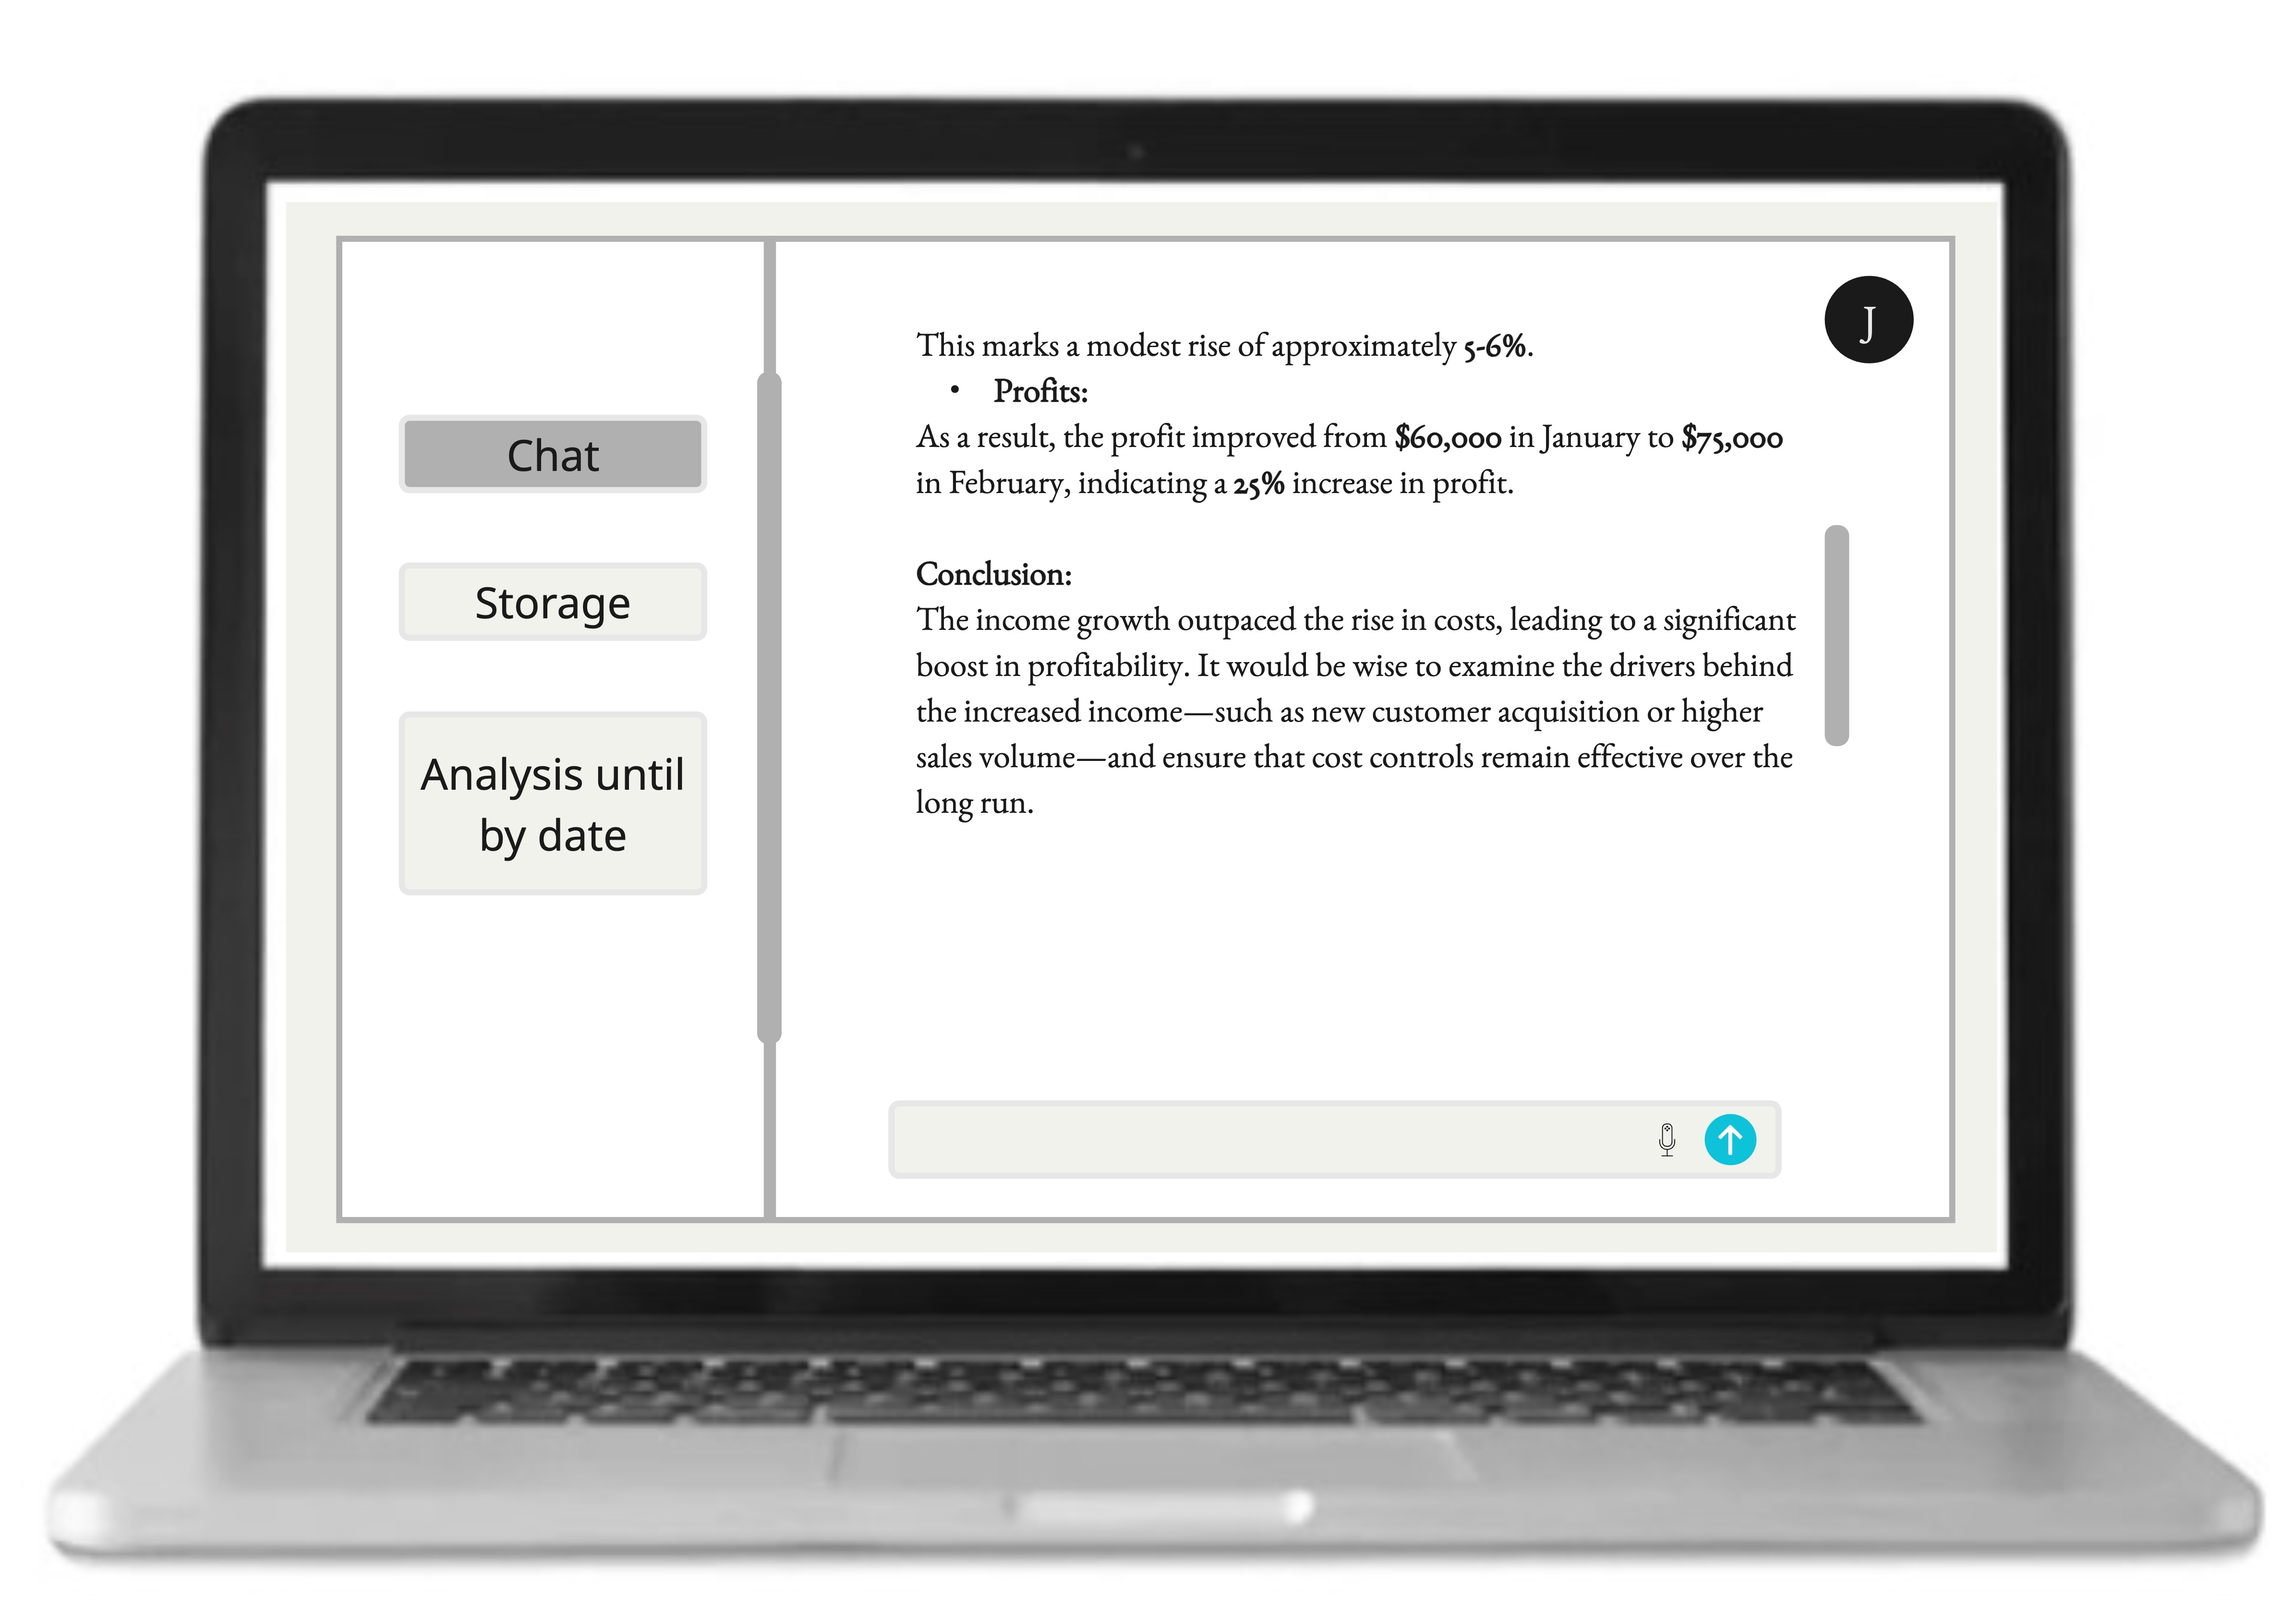
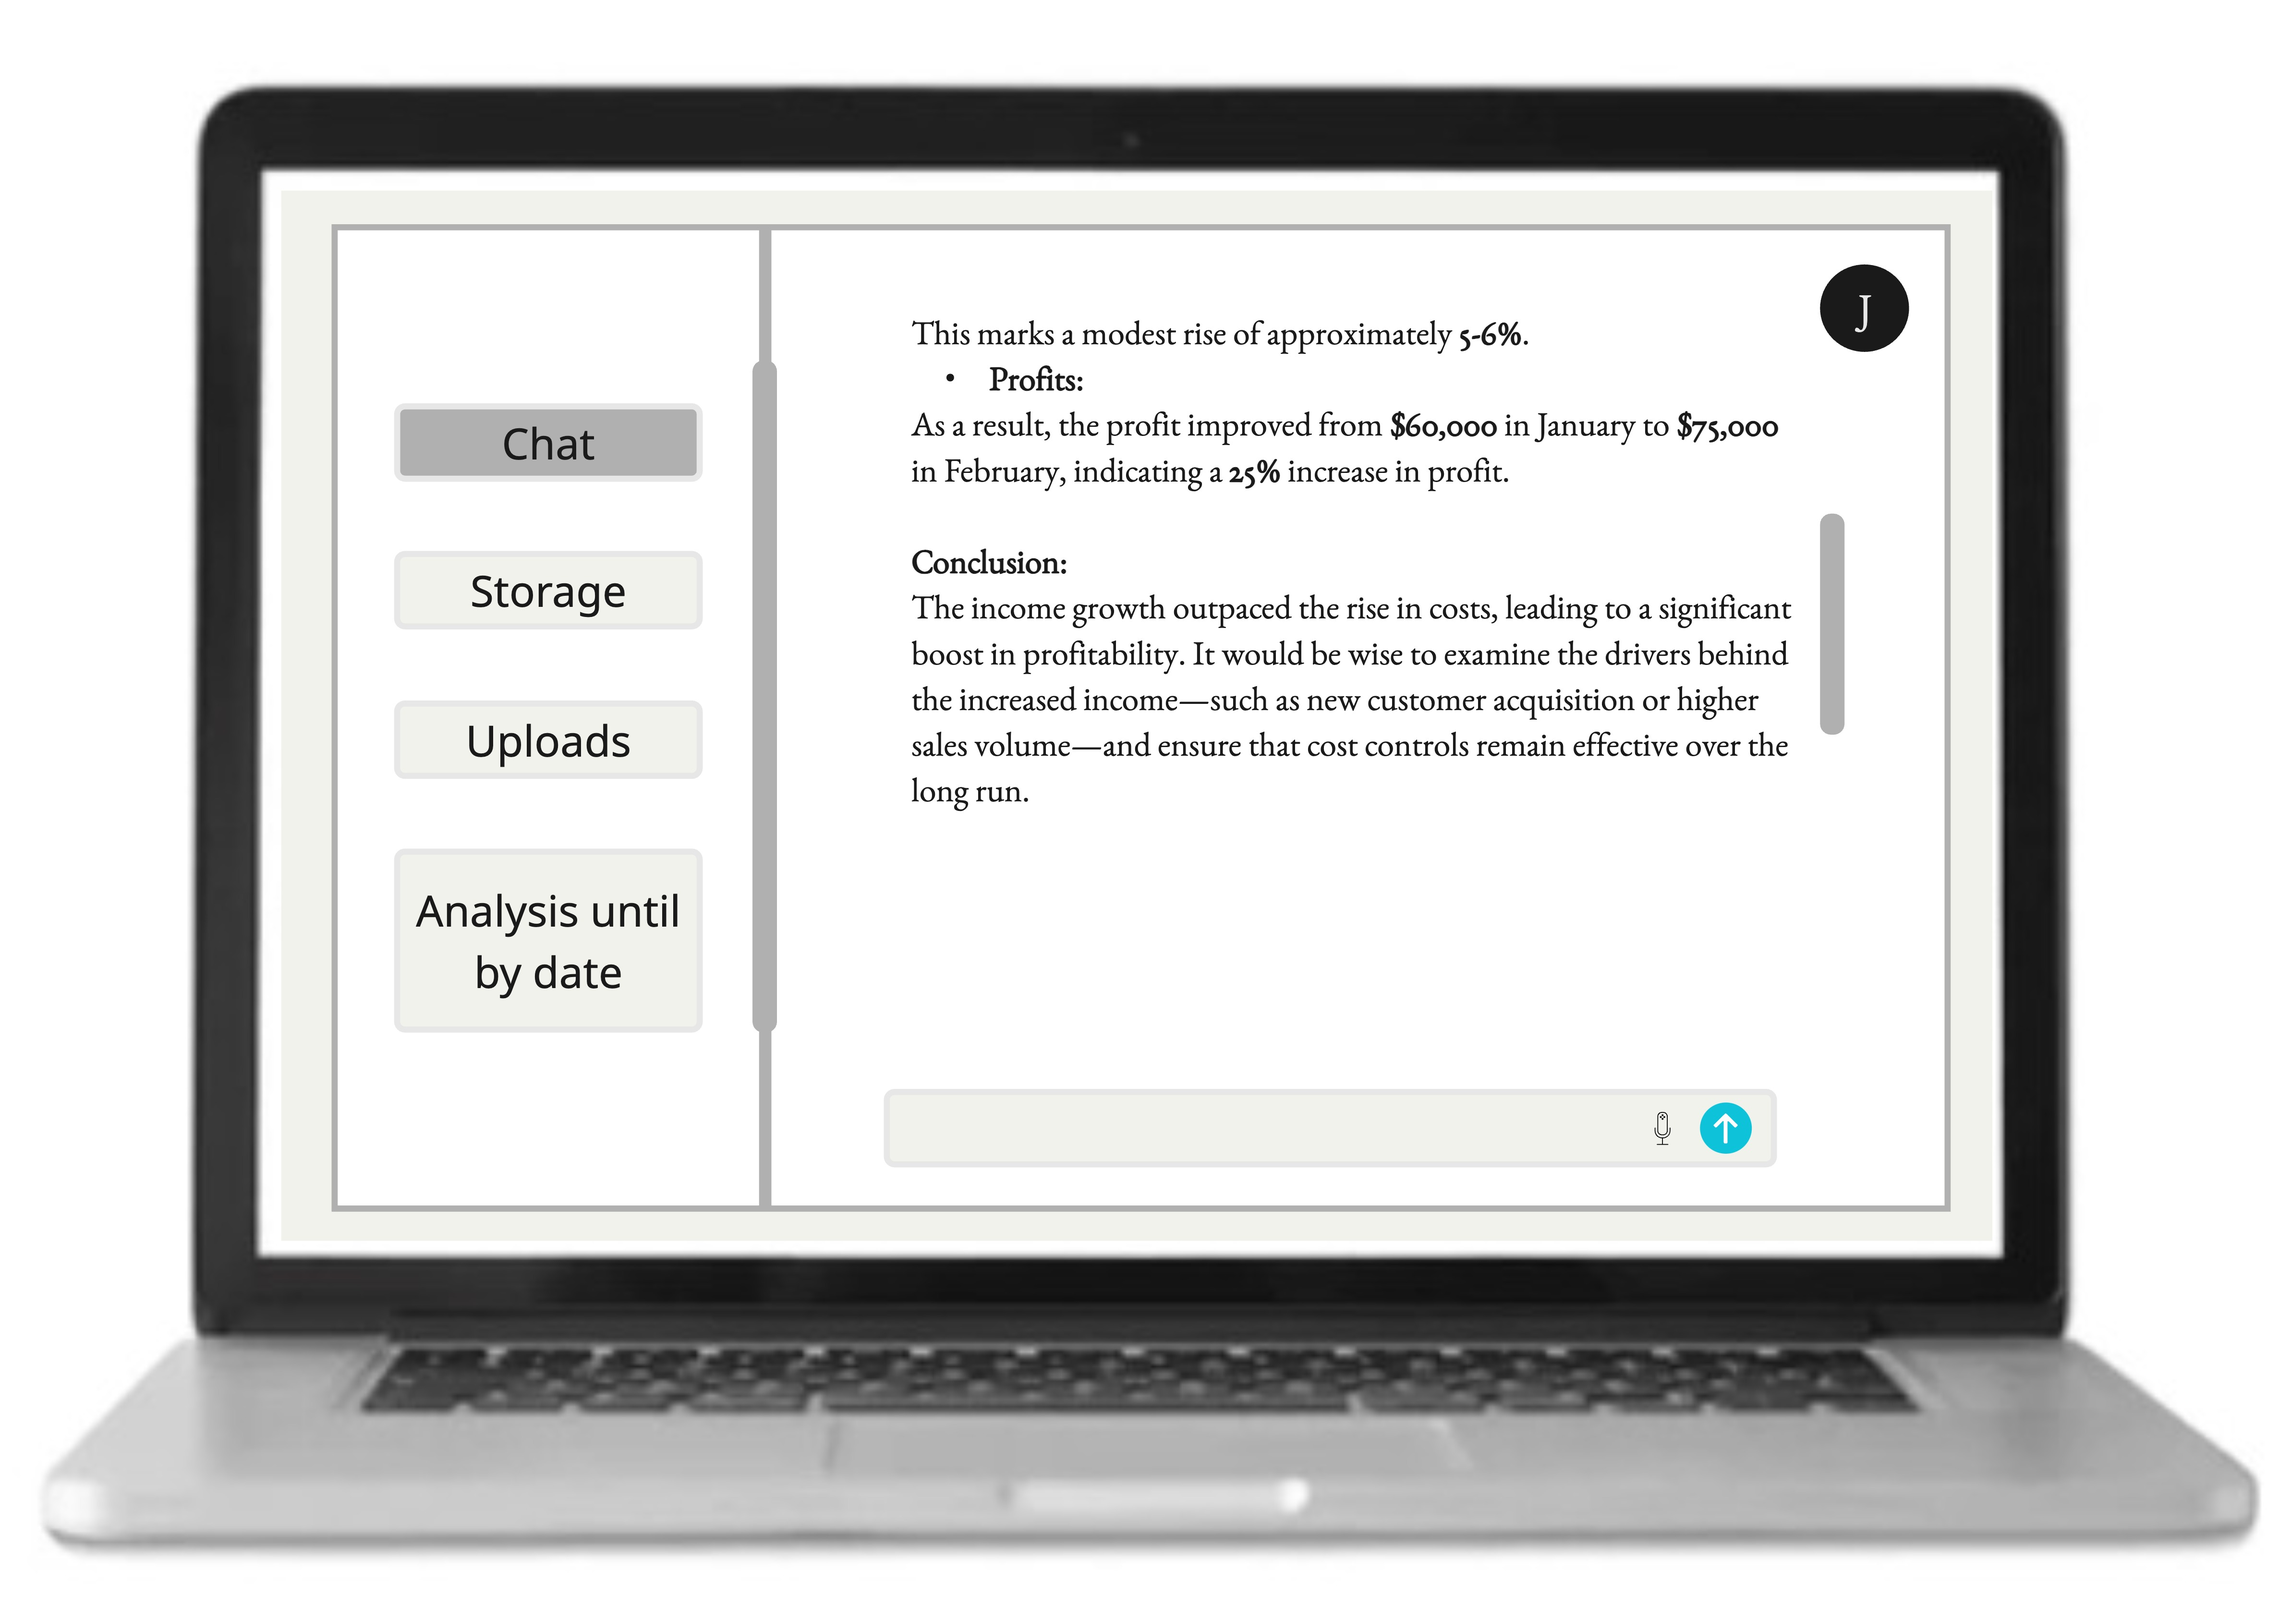
changes in mockup file and change chat3.jpg

diff --git a/files/mockup.md b/files/mockup.md
@@ -1,0 +1,85 @@
+# Guru App Mockup
+
+Below is a brief overview of the mockup images located in the `imgs/` folder, along with explanations of how each image fits into the Guru App flow. Each image provides a different view of the user interface and the functionalities we aim to deliver.
+
+---
+
+## 1. `Principal`
+![Principal Screen](./imgs/principal.jpg)
+
+**Description:**  
+- The main or “welcome” screen, greeting the user with a simple prompt: “How can I help you today?”  
+- Shows the left hand menu with sections such as **Chat**, **Storage**, **Uploads**, and an **Analysis** button.  
+- Sets the tone for the app, providing a minimal and clean interface so users immediately see where to start.
+
+---
+
+## 2. `Chat screen with a request from the user`
+![Chat Screen](./imgs/chat.jpg)
+
+**Description:**  
+- Illustrates the conversation area where users can type or speak queries, like “Compare incomes, costs, and profits of the last two months.”  
+- Displays a list of files or relevant documents (e.g., PDFs, spreadsheets) that the AI assistant may use for context.  
+- Highlights the real-time interaction with the AI, focusing on how the system retrieves and presents data from uploaded documents.
+
+---
+
+## 3. `Chat with Analysis`
+![Chat with Analysis](./imgs/chat2.jpg)
+
+**Description:**  
+- Shows a more detailed response from the AI in the chat window, including basic financial charts (e.g., bar charts, pie charts) to illustrate comparative figures.  
+- Demonstrates how users can see both numerical results and visual insights (such as changes in income vs. costs).  
+- Emphasizes the ability to retrieve multiple files at once to compile a combined analysis.
+
+---
+
+## 4. `Extended Chat Explanation`
+![Extended Chat Explanation](./imgs/chat3.jpg)
+
+**Description:**  
+- Continues the conversation with more in-depth commentary on financial data, possibly pointing out cost variances or profit margins.  
+- The AI provides a short conclusion or recommendation, e.g., “Consider examining the drivers behind the increased income to maintain profitability.”  
+- Highlights how the assistant can give a concise yet explanatory overview of the findings.
+
+---
+
+## 6. `Storage View`
+![Storage View](./imgs/Storage.jpg)
+
+**Description:**  
+- Represents how files are managed within the app—possibly showing a table with columns for file status, email (if shared), or amounts.  
+- Allows filtering, viewing the current files in storage, or performing other organizational tasks (e.g., delete, rename).  
+- Reinforces the “one-stop” nature of Guru App by combining both chat functionality and file management in a single interface.
+
+---
+
+## 5. `Analysis Dashboard`
+![Analysis Dashboard](./imgs/analysis.jpg)
+
+**Description:**  
+- Displays a dedicated analysis screen with various charts (bar, line, pie, waterfall) that compare income, costs, and profits across different months.  
+- Offers a high-level dashboard for quick overviews rather than purely text-based interaction.  
+- Perfect for users who prefer a visual snapshot of their financial status.
+
+---
+
+## 7. `Uploads Screen`
+![Uploads Screen](./imgs/uploads.jpg)
+
+**Description:**  
+- Demonstrates the upload area where users can add up to 10 files at once, supporting various extensions (PDF, DOCX, JPEG, XLSX).  
+- Explains how the system takes in documents for subsequent analysis.  
+- A straightforward drag and drop or file browser interface, ensuring simplicity for all user levels.
+
+---
+
+### Summary
+
+Each of these images illustrates a part of the Guru App’s user journey:
+- **Principal Screen** for welcoming and orienting users.
+- **Chat Screens** (`chat.jpg`, `chat2.jpg`, `chat3.jpg`) showing conversational AI with contextual responses and embedded charts.
+- **Analysis.jpg** for dashboard style visual overviews.
+- **Storage.jpg** and **Uploads.jpg** for file management and organization in one place.
+
+Taken together, these mockups provide a cohesive vision of how Guru App streamlines financial data uploads, interpretation, and presentation, making it easy for anyone—whether an individual or a small business owner—to gain actionable insights from their documents.
